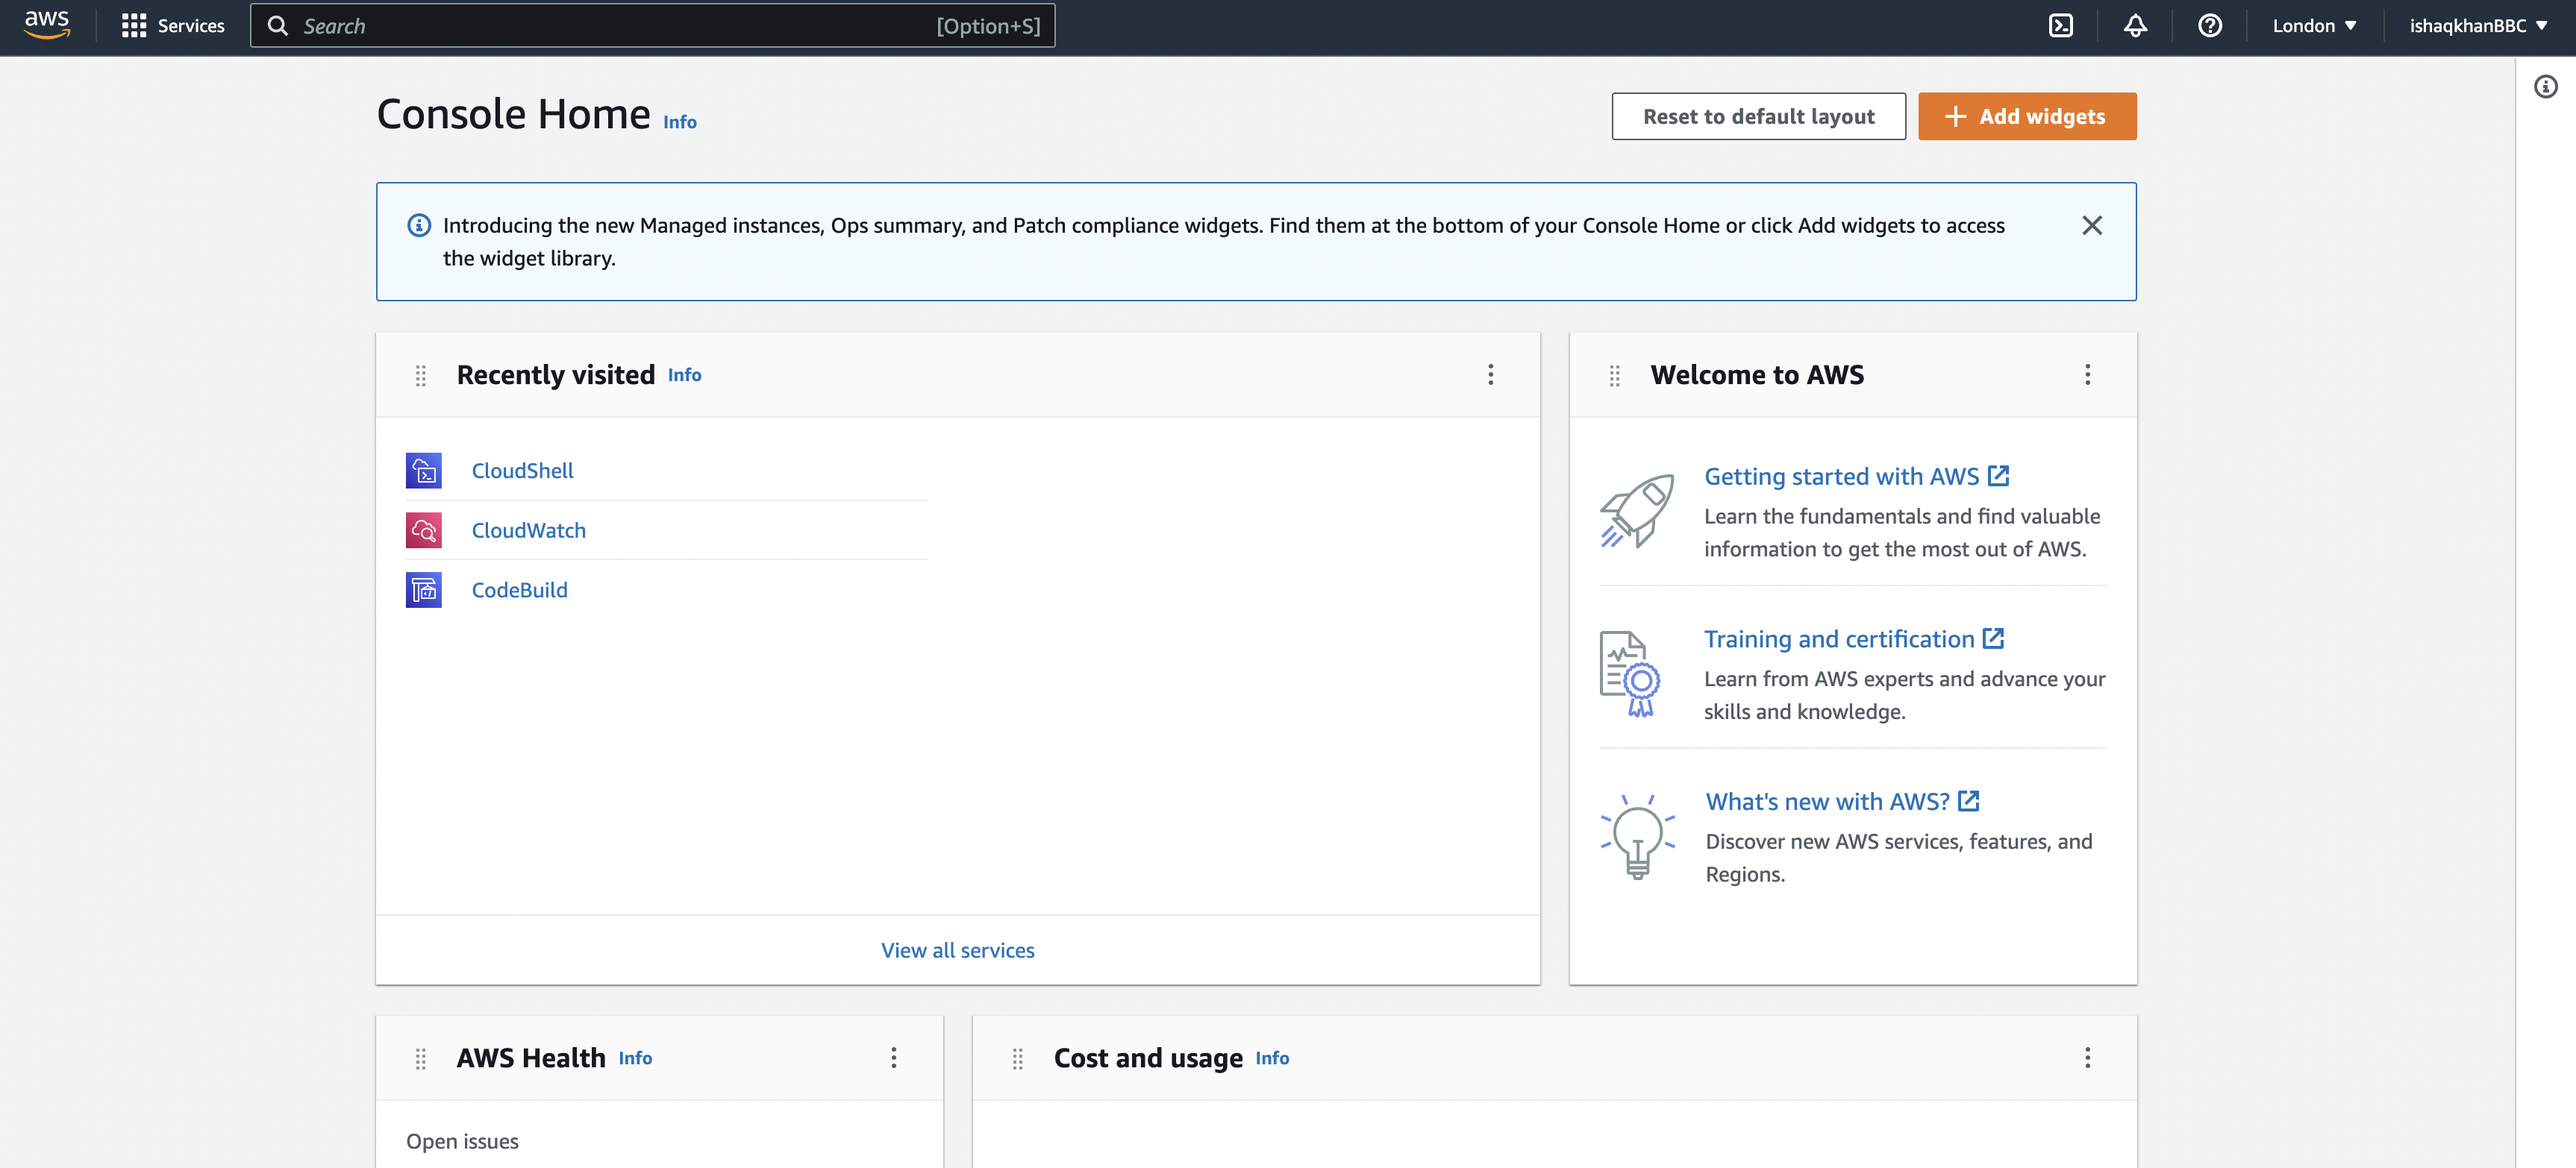
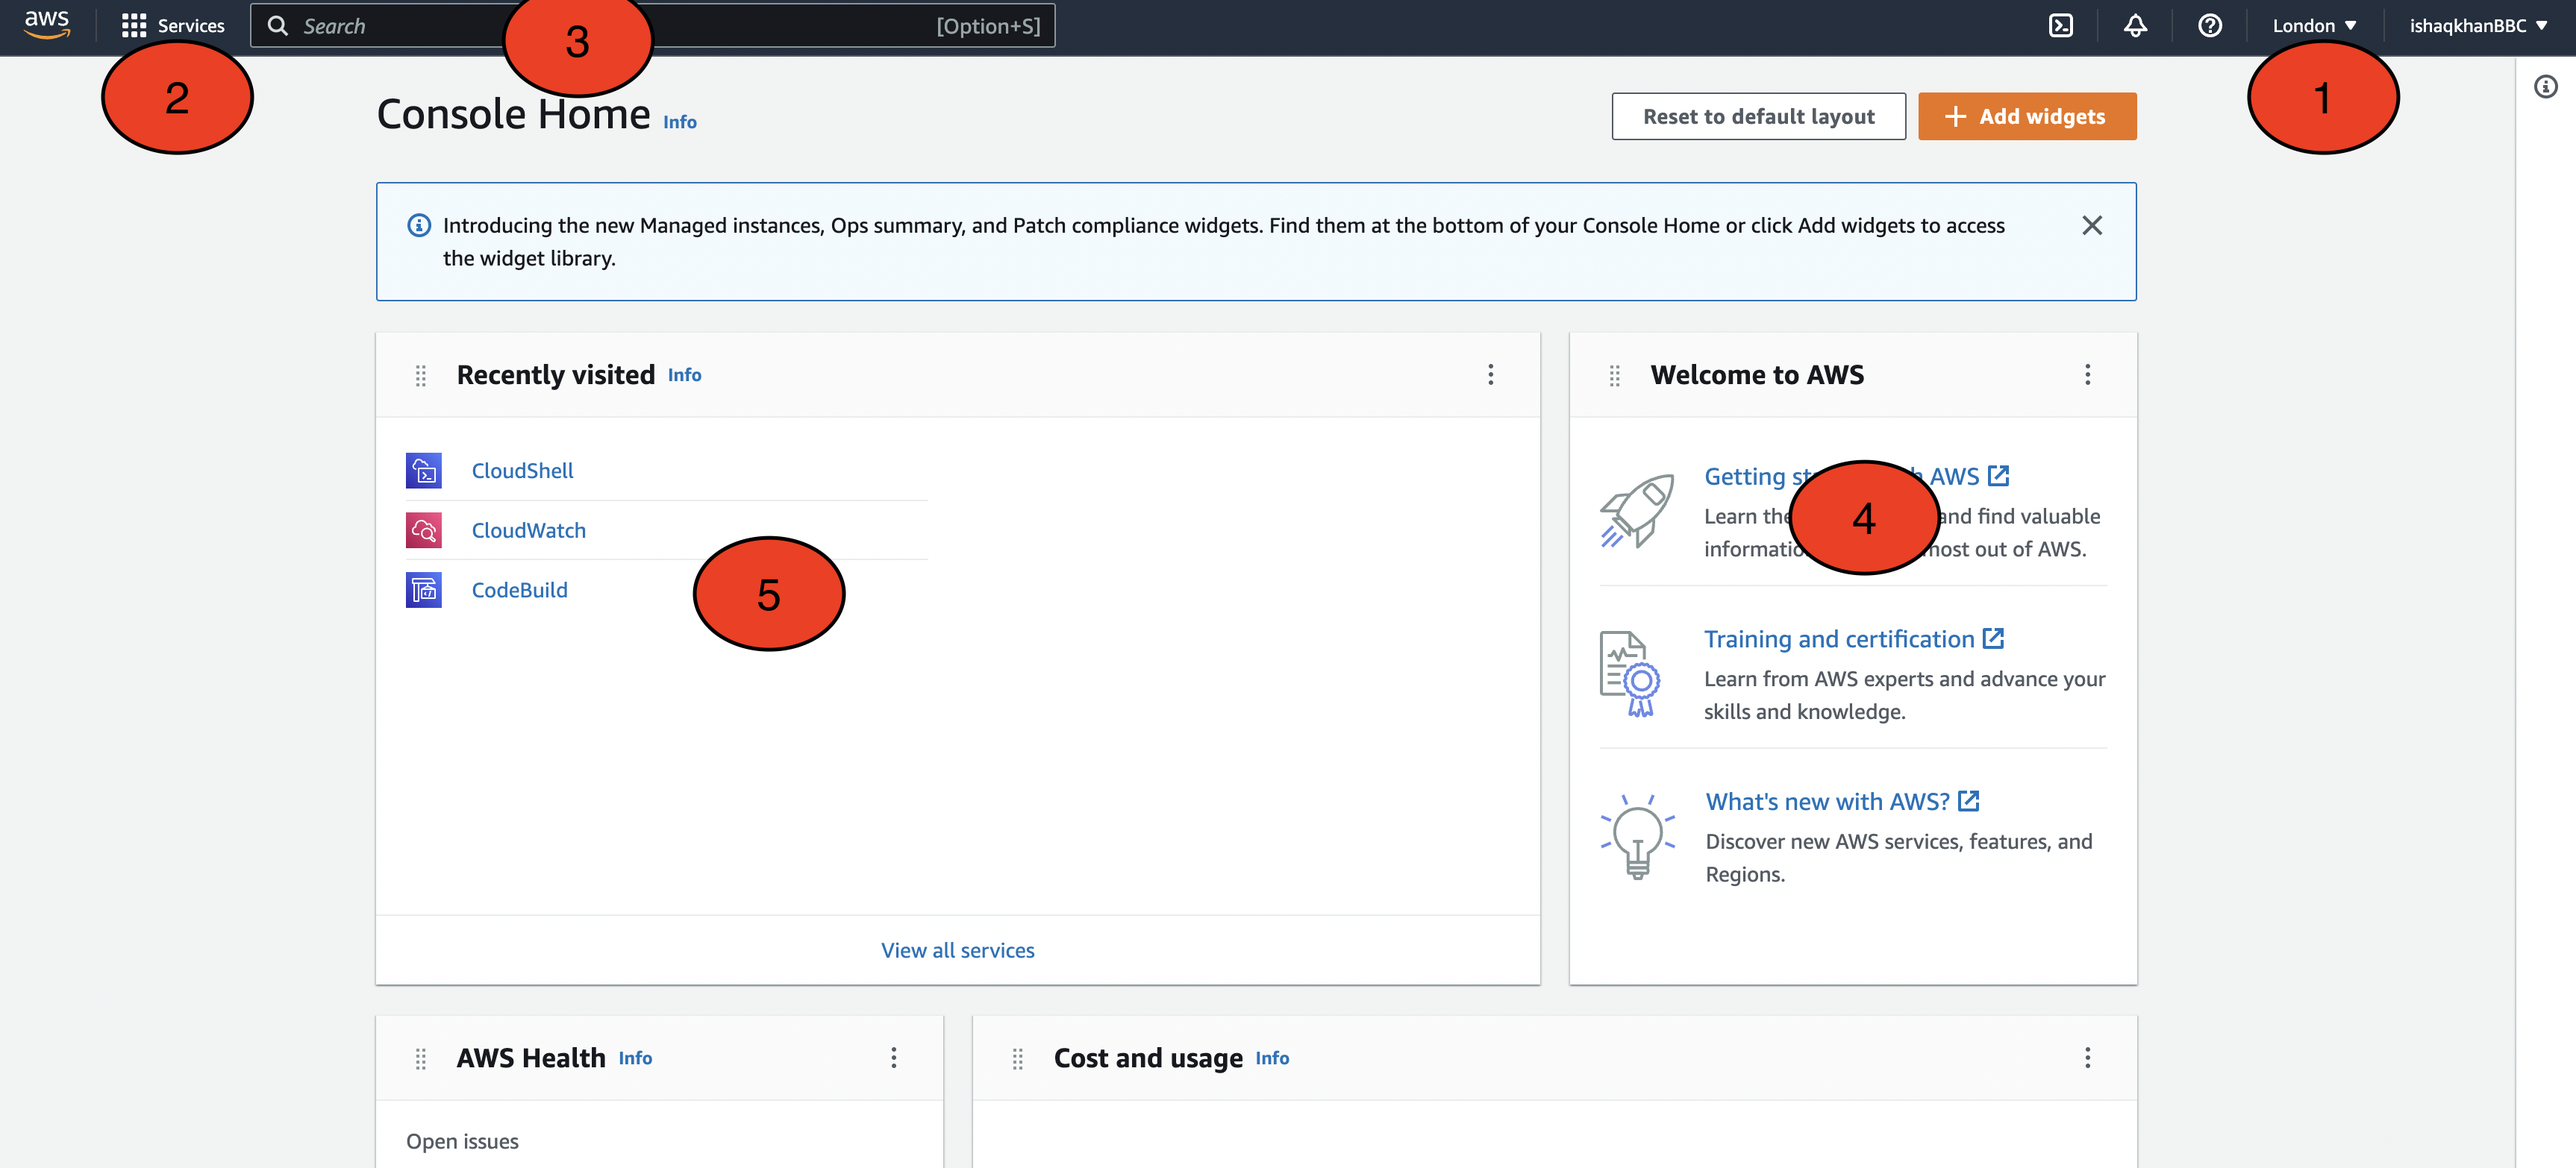
changes

diff --git a/blog/content/blog/2023-01-23-aws-2-getting-started-and-iam.md b/blog/content/blog/2023-01-23-aws-2-getting-started-and-iam.md
@@ -17,7 +17,7 @@ This blog post is all about getting started with Amazon Web Services (AWS) and s
 
 ## The history of AWS (Amazon Web Service)
 
-AWS was first launched in 2002 by amazon. 2004 - launched 2qs , 2006 launched sqd, s3 and ec2
+AWS was first launched in 2002 by amazon. 2004 - launched [SQS](https://aws.amazon.com/sqs/features/?trk=a7f57dee-fc58-4084-9037-cb552d58a5d5&sc_channel=ps&s_kwcid=AL!4422!3!637214078377!!!g!!&ef_id=EAIaIQobChMI--PQwvjn_AIVQuztCh0V4wtqEAAYASAAEgI-l_D_BwE:G:s), 2006 re-launched SQS, s3 and ec2
 
 AWS accounts for 47% of the market in 2019, it's the pioneer and leader in AWS Cloud Market for the 9th consecutive year, with over 1,000,000 active users.
 

diff --git a/blog/content/blog/2023-01-27-aws-3-UI-guide-and-walkthrough.md b/blog/content/blog/2023-01-27-aws-3-UI-guide-and-walkthrough.md
@@ -14,8 +14,9 @@ Following the previous blogs in the series.
 We will go over the console and UI of AWS Console
 
 
+Here is what is first displayed when you log into AWS 
 
-
+![console home](/images/uploads/console-home.png)
 
 
 

diff --git a/blog/content/blog/2023-01-21-saturday.md b/blog/content/blog/2023-01-21-saturday.md
@@ -3,4 +3,4 @@ layout: blog
 title: What I ate on the Weekend
 date: 2023-01-21T20:17:32.123Z
 ---
-I had wings and chicken
+I had wings and chicken
